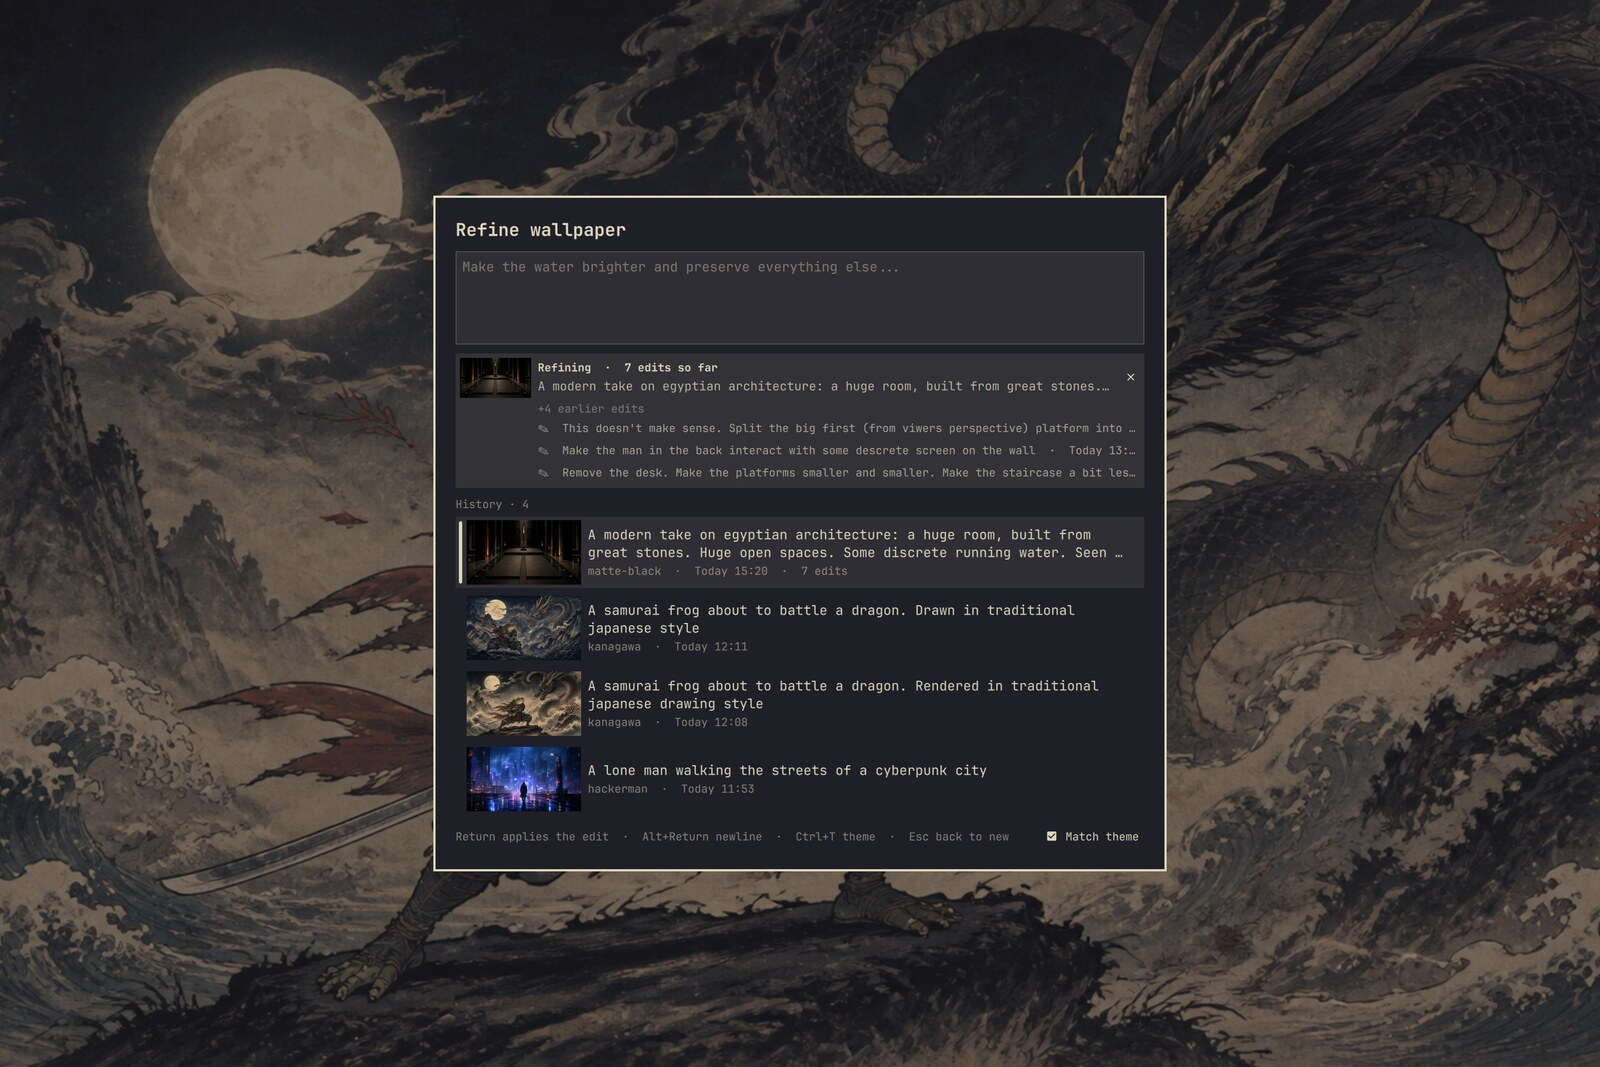
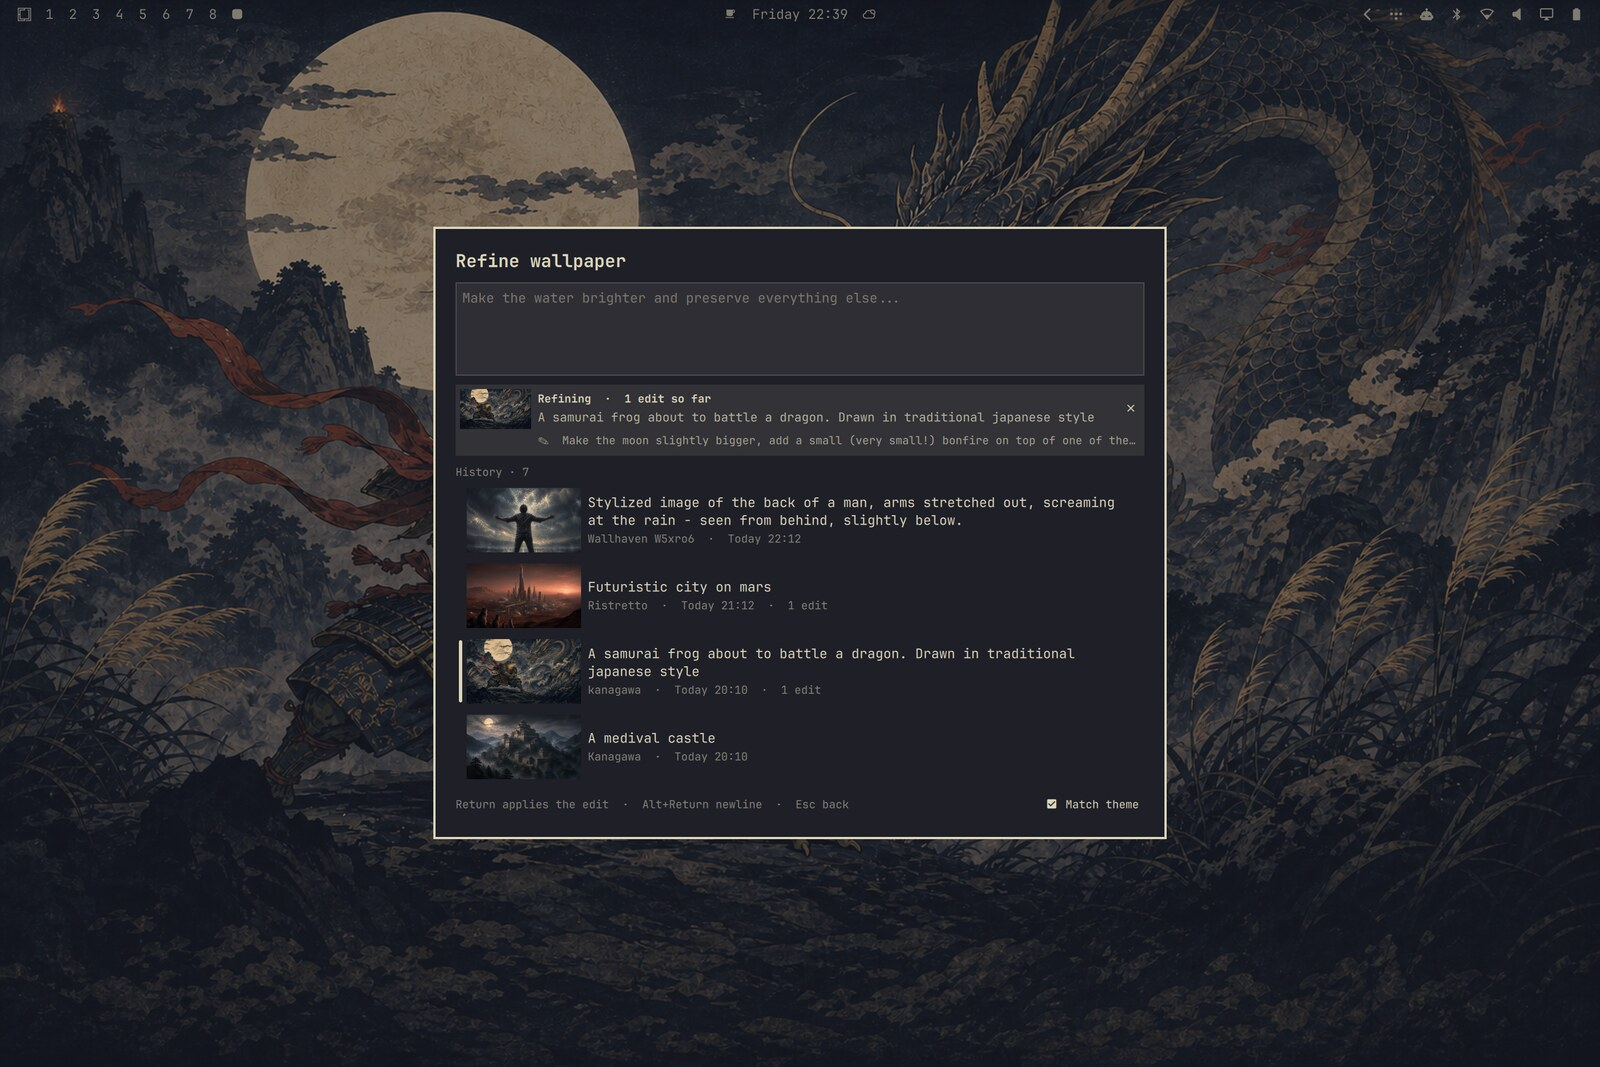
Declutter the card with a row action menu
Return (or click) on a history row now opens a compact action menu
(refine, apply, reuse prompt, create theme, delete/cancel) with each
direct shortcut shown alongside, replacing the six-shortcut hint line.
The refine strip slims to its header plus one context line (version
browser when snapshots exist, otherwise the latest edit), and footer
hints shrink to the essentials. Version 0.10.0.

diff --git a/WallpaperPrompt.qml b/WallpaperPrompt.qml
@@ -29,6 +29,9 @@ Item {
   property string confirmTargetId: ""
   property string confirmMessage: ""
 
+  property bool actionMenuOpen: false
+  property int actionRowIndex: -1
+
   property string refineRecordId: ""
   property string refinePrompt: ""
   property string refineImage: ""
@@ -37,8 +40,6 @@ Item {
   property int refineVersionIndex: -1
   readonly property var refineSelected: refineVersionIndex >= 0 && refineVersionIndex < refineVersions.length
     ? refineVersions[refineVersionIndex] : null
-  readonly property var refineEditsShown: refineEdits.slice(-3)
-  readonly property int refineEditsHidden: Math.max(0, refineEdits.length - 3)
   readonly property bool refineActive: refineRecordId !== ""
 
   property string inlineError: ""
@@ -438,6 +439,54 @@ Item {
     root.focusPrompt()
   }
 
+  function openRowActions(index) {
+    if (index < 0 || index >= historyModel.count)
+      return
+    var row = historyModel.get(index)
+    historyList.currentIndex = index
+    var items = []
+    if (row.pending) {
+      items.push({ label: "Reuse prompt", kbd: "Shift+Return", action: "reuse" })
+      items.push({ label: "Cancel generation", kbd: "Del", action: "rowAction" })
+    } else {
+      items.push({ label: root.refineRecordId === row.recordId ? "Stop refining" : "Refine", kbd: "", action: "refine" })
+      items.push({ label: "Apply as background", kbd: "Alt+Return", action: "apply" })
+      items.push({ label: "Reuse prompt", kbd: "Shift+Return", action: "reuse" })
+      items.push({ label: "Create theme", kbd: "Alt+T", action: "theme" })
+      items.push({ label: row.working ? "Cancel edit" : "Delete", kbd: "Del", action: "rowAction" })
+    }
+    actionMenu.items = items
+    actionMenu.selectedIndex = 0
+    actionMenu.title = row.prompt
+    root.actionRowIndex = index
+    root.actionMenuOpen = true
+  }
+
+  function closeActionMenu() {
+    root.actionMenuOpen = false
+    Qt.callLater(function() {
+      if (historyModel.count > 0)
+        historyList.forceActiveFocus()
+      else
+        root.focusPrompt()
+    })
+  }
+
+  function runRowAction(action) {
+    var index = root.actionRowIndex
+    root.actionMenuOpen = false
+    if (action === "refine")
+      root.setRefineTarget(index)
+    else if (action === "apply")
+      root.applyWallpaper(index)
+    else if (action === "reuse")
+      root.reusePrompt(index)
+    else if (action === "theme")
+      root.createTheme(index)
+    else if (action === "rowAction")
+      root.requestRowAction(index)
+  }
+
   function createTheme(index) {
     if (index < 0 || index >= historyModel.count)
       return
@@ -664,6 +713,127 @@ Item {
         onConfirmed: root.executeConfirm()
       }
 
+      Item {
+        id: actionMenu
+        anchors.fill: parent
+        z: 15
+        visible: root.actionMenuOpen
+
+        property var items: []
+        property int selectedIndex: 0
+        property string title: ""
+
+        function handleKey(event) {
+          if (!root.actionMenuOpen)
+            return false
+          if (event.key === Qt.Key_Escape) {
+            root.closeActionMenu()
+            return true
+          }
+          if (event.key === Qt.Key_Up || (event.key === Qt.Key_Tab && (event.modifiers & Qt.ShiftModifier))) {
+            actionMenu.selectedIndex = (actionMenu.selectedIndex + actionMenu.items.length - 1) % actionMenu.items.length
+            return true
+          }
+          if (event.key === Qt.Key_Down || event.key === Qt.Key_Tab) {
+            actionMenu.selectedIndex = (actionMenu.selectedIndex + 1) % actionMenu.items.length
+            return true
+          }
+          if (event.key === Qt.Key_Return || event.key === Qt.Key_Enter) {
+            root.runRowAction(actionMenu.items[actionMenu.selectedIndex].action)
+            return true
+          }
+          return false
+        }
+
+        Rectangle {
+          anchors.fill: parent
+          color: root.scrim
+
+          MouseArea { anchors.fill: parent; onClicked: root.closeActionMenu() }
+        }
+
+        BorderSurface {
+          id: actionCard
+          width: Math.min(Style.space(320), parent.width - Style.space(24))
+          height: actionColumn.implicitHeight + actionCard.contentTopInset + actionCard.contentBottomInset
+          anchors.centerIn: parent
+          color: root.background
+          borderSpec: Border.flat(root.selectedText, Style.normalBorderWidth)
+          radius: root.cornerRadius
+          padding: Style.spacing.md
+
+          MouseArea { anchors.fill: parent; onClicked: {} }
+
+          Column {
+            id: actionColumn
+            anchors.top: parent.top
+            anchors.left: parent.left
+            anchors.right: parent.right
+            anchors.topMargin: actionCard.contentTopInset
+            anchors.leftMargin: actionCard.contentLeftInset
+            anchors.rightMargin: actionCard.contentRightInset
+            spacing: Style.spacing.xxs
+
+            Text {
+              width: parent.width
+              text: actionMenu.title
+              textFormat: Text.PlainText
+              color: root.foreground
+              opacity: 0.55
+              font.family: Style.font.menuFamily
+              font.pixelSize: Style.font.caption
+              elide: Text.ElideRight
+              bottomPadding: Style.spacing.sm
+            }
+
+            Repeater {
+              model: actionMenu.items
+
+              Rectangle {
+                required property int index
+                required property var modelData
+
+                readonly property bool isSelected: index === actionMenu.selectedIndex
+
+                width: actionColumn.width
+                height: Style.space(30)
+                radius: root.cornerRadius
+                color: isSelected ? root.selectedBackground : "transparent"
+
+                Text {
+                  anchors.left: parent.left
+                  anchors.leftMargin: Style.spacing.md
+                  anchors.verticalCenter: parent.verticalCenter
+                  text: modelData.label
+                  color: parent.isSelected ? root.selectedText : root.foreground
+                  font.family: Style.font.menuFamily
+                  font.pixelSize: Style.font.body
+                }
+
+                Text {
+                  anchors.right: parent.right
+                  anchors.rightMargin: Style.spacing.md
+                  anchors.verticalCenter: parent.verticalCenter
+                  text: modelData.kbd
+                  color: root.foreground
+                  opacity: 0.45
+                  font.family: Style.font.menuFamily
+                  font.pixelSize: Style.font.caption
+                }
+
+                MouseArea {
+                  anchors.fill: parent
+                  hoverEnabled: true
+                  cursorShape: Qt.PointingHandCursor
+                  onEntered: actionMenu.selectedIndex = parent.index
+                  onClicked: root.runRowAction(parent.modelData.action)
+                }
+              }
+            }
+          }
+        }
+      }
+
       Column {
         id: content
         anchors.top: parent.top
@@ -760,6 +930,11 @@ Item {
             selectByMouse: true
 
             Keys.onPressed: function(event) {
+              if (root.actionMenuOpen) {
+                if (actionMenu.handleKey(event))
+                  event.accepted = true
+                return
+              }
               if (root.confirmAction !== "") {
                 if (confirmDialog.handleKey(event))
                   event.accepted = true
@@ -921,31 +1096,21 @@ Item {
             }
 
             Text {
-              visible: root.refineEditsHidden > 0
+              visible: root.refineVersions.length <= 1 && root.refineEdits.length > 0
               width: parent.width
               leftPadding: refineStrip.textIndent
-              text: "+" + root.refineEditsHidden + " earlier " + (root.refineEditsHidden === 1 ? "edit" : "edits")
+              text: root.refineEdits.length > 0
+                ? "✎  " + root.refineEdits[root.refineEdits.length - 1].instruction
+                  + (root.refineEdits[root.refineEdits.length - 1].at
+                    ? "  ·  " + root.formatWhen(root.refineEdits[root.refineEdits.length - 1].at)
+                    : "")
+                : ""
+              textFormat: Text.PlainText
               color: root.foreground
-              opacity: 0.45
+              opacity: 0.7
               font.family: Style.font.menuFamily
               font.pixelSize: Style.font.caption
-            }
-
-            Repeater {
-              model: root.refineEditsShown
-
-              Text {
-                width: stripColumn.width
-                leftPadding: refineStrip.textIndent
-                text: "✎  " + modelData.instruction
-                  + (modelData.at ? "  ·  " + root.formatWhen(modelData.at) : "")
-                textFormat: Text.PlainText
-                color: root.foreground
-                opacity: 0.7
-                font.family: Style.font.menuFamily
-                font.pixelSize: Style.font.caption
-                elide: Text.ElideRight
-              }
+              elide: Text.ElideRight
             }
           }
         }
@@ -975,6 +1140,11 @@ Item {
             keyNavigationWraps: false
 
             Keys.onPressed: function(event) {
+              if (root.actionMenuOpen) {
+                if (actionMenu.handleKey(event))
+                  event.accepted = true
+                return
+              }
               if (root.confirmAction !== "") {
                 if (confirmDialog.handleKey(event))
                   event.accepted = true
@@ -1004,7 +1174,7 @@ Item {
                 else if ((event.modifiers & Qt.ShiftModifier) !== 0)
                   root.reusePrompt(historyList.currentIndex)
                 else
-                  root.setRefineTarget(historyList.currentIndex)
+                  root.openRowActions(historyList.currentIndex)
                 event.accepted = true
               } else if (event.text && event.text.length === 1
                   && event.text.charCodeAt(0) >= 32 && event.text.charCodeAt(0) !== 127) {
@@ -1119,10 +1289,7 @@ Item {
                 anchors.fill: parent
                 hoverEnabled: true
                 cursorShape: Qt.PointingHandCursor
-                onClicked: {
-                  historyList.currentIndex = index
-                  root.setRefineTarget(index)
-                }
+                onClicked: root.openRowActions(index)
               }
             }
           }
@@ -1140,12 +1307,12 @@ Item {
             anchors.verticalCenter: parent.verticalCenter
             text: root.inlineError !== "" ? root.inlineError
               : historyList.activeFocus
-                ? "Return refine  ·  Alt+Return apply  ·  Alt+T theme  ·  Shift+Return reuse  ·  Del delete  ·  Esc"
+                ? "Return actions  ·  Tab prompt  ·  Esc"
               : root.refineActive
                 ? "Return applies the edit  ·  Alt+Return newline"
-                  + (root.refineVersions.length > 1 ? "  ·  Alt+←/→ versions" : "  ·  Ctrl+T theme")
-                  + "  ·  Esc back to new"
-                : "Return generates  ·  Alt+Return newline  ·  Ctrl+T theme"
+                  + (root.refineVersions.length > 1 ? "  ·  Alt+←/→ versions" : "")
+                  + "  ·  Esc back"
+                : "Return generates  ·  Alt+Return newline"
                   + (historyModel.count > 0 ? "  ·  Tab history" : "")
                   + "  ·  Esc"
             textFormat: Text.PlainText

diff --git a/README.md b/README.md
@@ -2,9 +2,9 @@
 
 Generate, revisit, and refine AI wallpapers for [Omarchy](https://omarchy.org) — theme-aware, crop-safe, keyboard-first.
 
-![The Wallsmith card: prompt on top, generated wallpaper history below](assets/wallsmith-card.jpg)
+![The Wallsmith card over the wallpaper its prompt generated, on the Kanagawa theme](assets/wallsmith-card.jpg)
 
-Made with Wallsmith on the **Kanagawa** theme, from the prompt *“A samurai frog about to battle a dragon. Drawn in traditional japanese style”*:
+The wallpaper behind that card is the prompt in it — made with Wallsmith on the **Kanagawa** theme:
 
 ![A samurai frog about to battle a dragon, in traditional Japanese style](assets/example-kanagawa.jpg)
 
@@ -46,19 +46,21 @@ In the prompt:
 | `Tab` / `Down` | Move into history |
 | `Esc` | Back out, then close |
 
-On a wallpaper in history:
+On a wallpaper in history, `Return` (or a click) opens its action menu — each action also has a direct shortcut, shown in the menu:
 
-| Key | Action |
-|-----|--------|
-| `Return` / click | Refine it — edits continue in that wallpaper's own agent thread |
-| `Alt+Return` | Apply it as your background |
-| `Shift+Return` | Reuse its prompt for a new wallpaper |
-| `Alt+T` | Create a matching Omarchy theme from it |
-| `Delete` | Delete it — or cancel its running job |
+![The action menu on a history row](assets/wallsmith-actions.jpg)
 
-![Refining a wallpaper: the strip shows its thumbnail, original prompt, and past edits](assets/wallsmith-refine.jpg)
+| Action | Shortcut |
+|--------|----------|
+| Refine it — edits continue in that wallpaper's own agent thread | menu |
+| Apply it as your background | `Alt+Return` |
+| Reuse its prompt for a new wallpaper | `Shift+Return` |
+| Create a matching Omarchy theme from it | `Alt+T` |
+| Delete it — or cancel its running job | `Delete` |
 
-While refining, the strip shows the wallpaper, its prompt, and your past edit instructions. Refinements replace the wallpaper's file — one slot per generation, however many edits — but the last five versions are kept: browse them with `Alt+←/→` (or click the thumbnail) and restore one with `Ctrl+Return`. A restore is itself undoable.
+![Refining the current wallpaper: the strip shows its thumbnail, original prompt, and last edit](assets/wallsmith-refine.jpg)
+
+While refining, the strip shows the wallpaper, its prompt, and your latest edit instruction. Refinements replace the wallpaper's file — one slot per generation, however many edits — but the last five versions are kept: browse them with `Alt+←/→` (or click the thumbnail) and restore one with `Ctrl+Return`. A restore is itself undoable.
 
 `Alt+T` turns a wallpaper into a full Omarchy theme: the palette is extracted from the pixels, the agent assigns roles and names the theme from the image and your prompt, contrast is validated, and the theme is applied immediately with the wallpaper bundled in. Keep it by doing nothing; click the notification to discard it and return to your previous theme. Remove one later with `omarchy theme remove <name>`. For hands-on palette tuning with sliders and presets, see [aether](https://github.com/bjarneo/aether).
 
